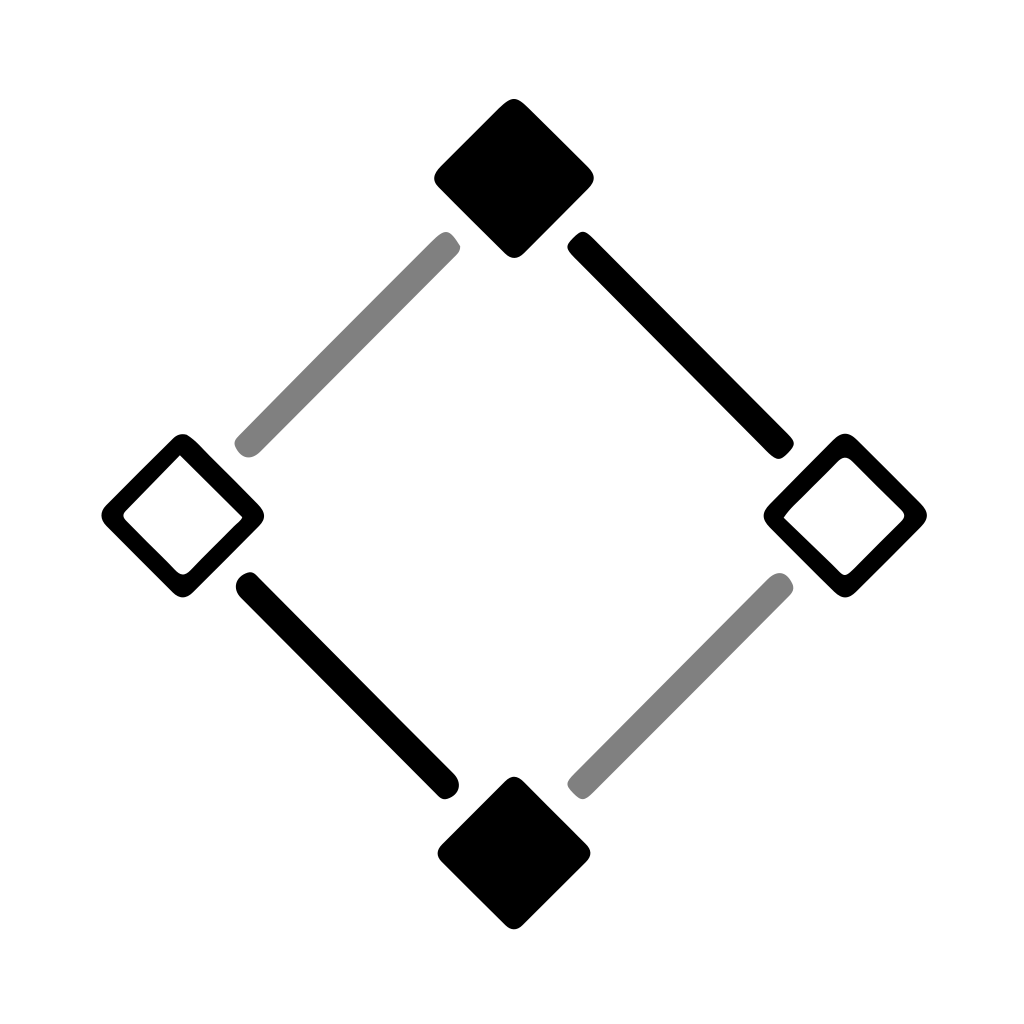
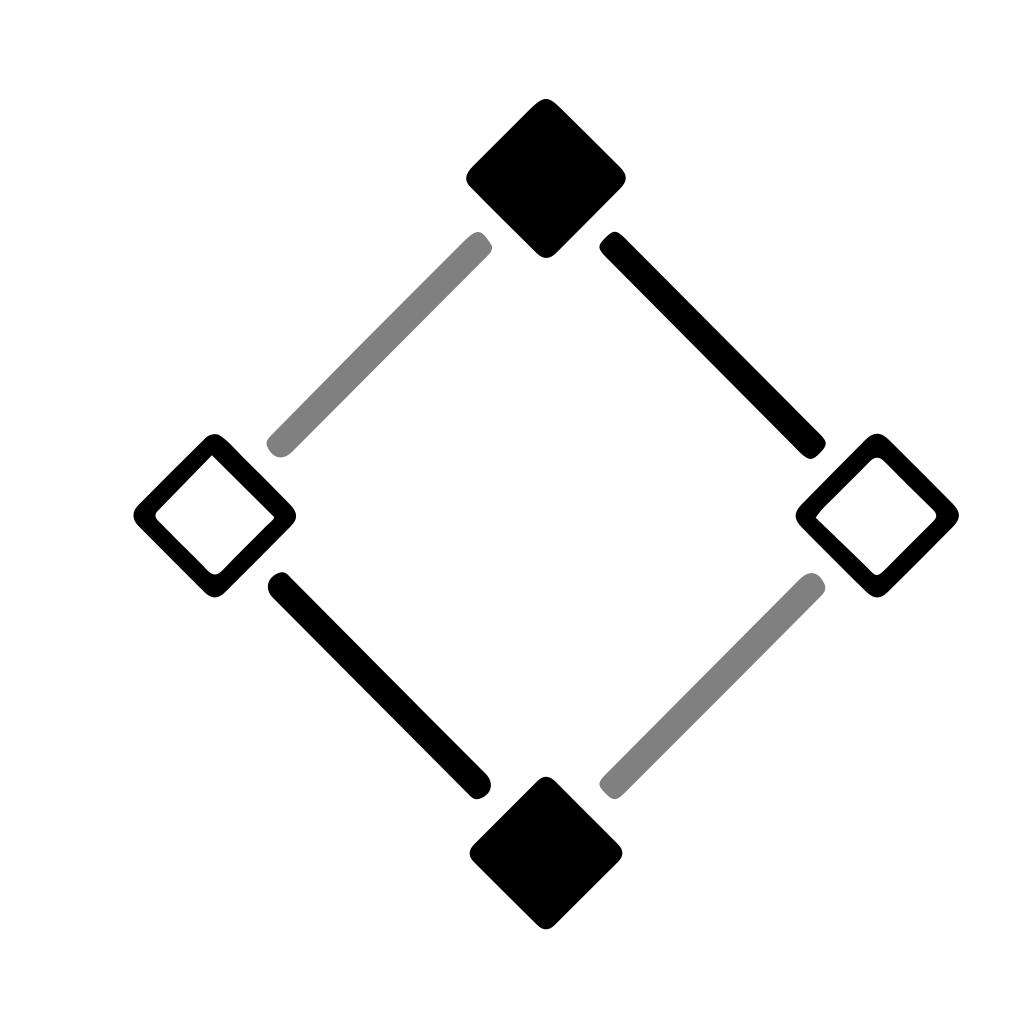
chore: optically align editor mark assets

Changed region(s): [[0.0938, 0.0938, 0.9375, 0.9062]]

diff --git a/assets/brand/README.md b/assets/brand/README.md
@@ -10,3 +10,6 @@ This directory contains the canonical Kern visual assets.
 Generated or packaged copies may live under tool-specific directories, such as
 `editors/vscode/icons/`, but those copies should be refreshed from this
 directory rather than edited directly.
+
+The editor mark assets are optically aligned for small file-icon slots. Their
+viewBox is intentionally not a pure geometric crop of the paths.